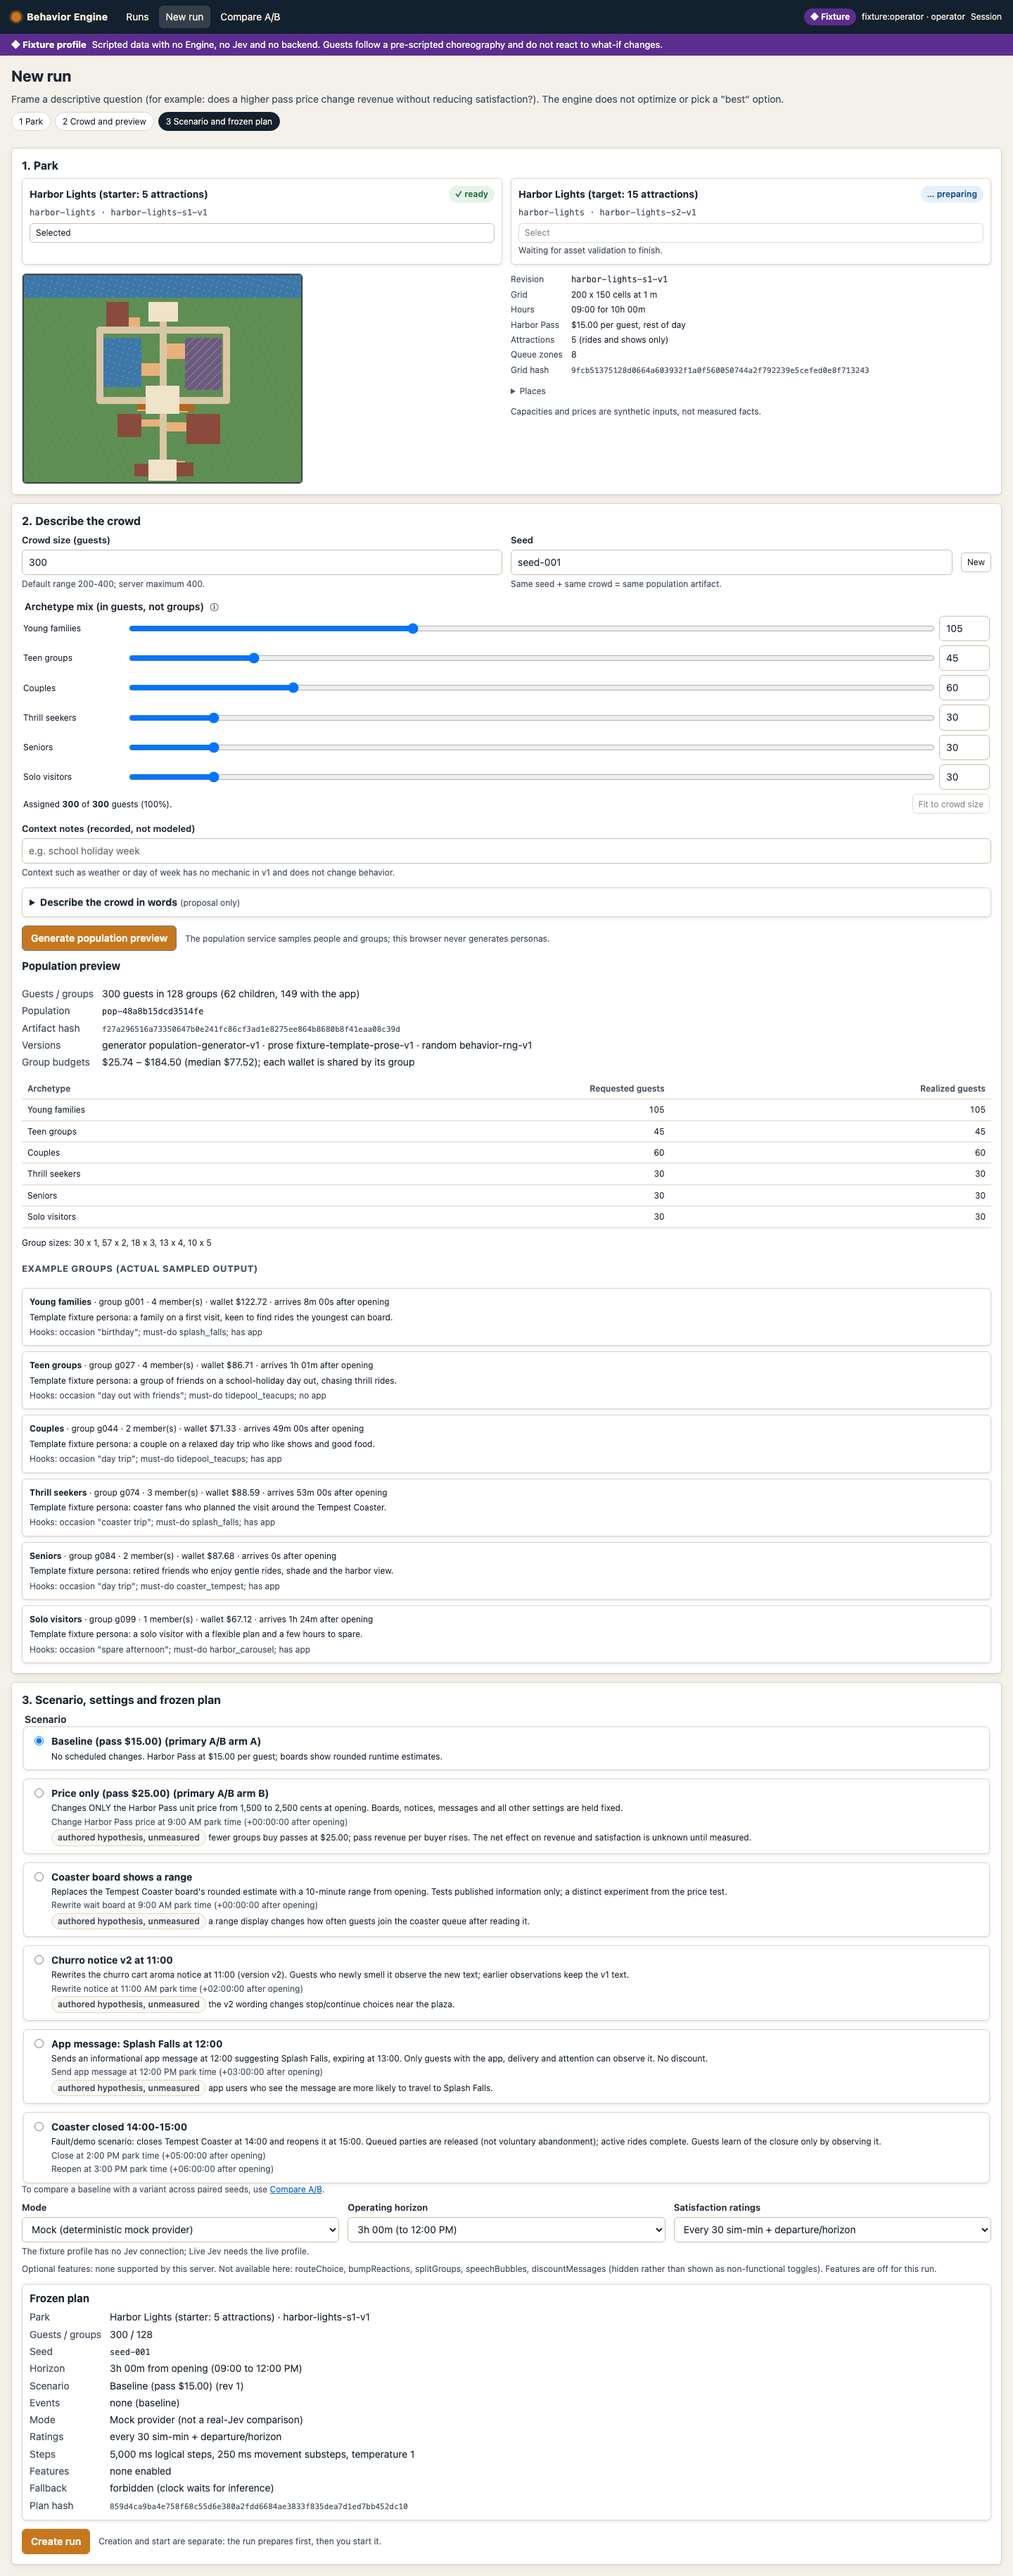
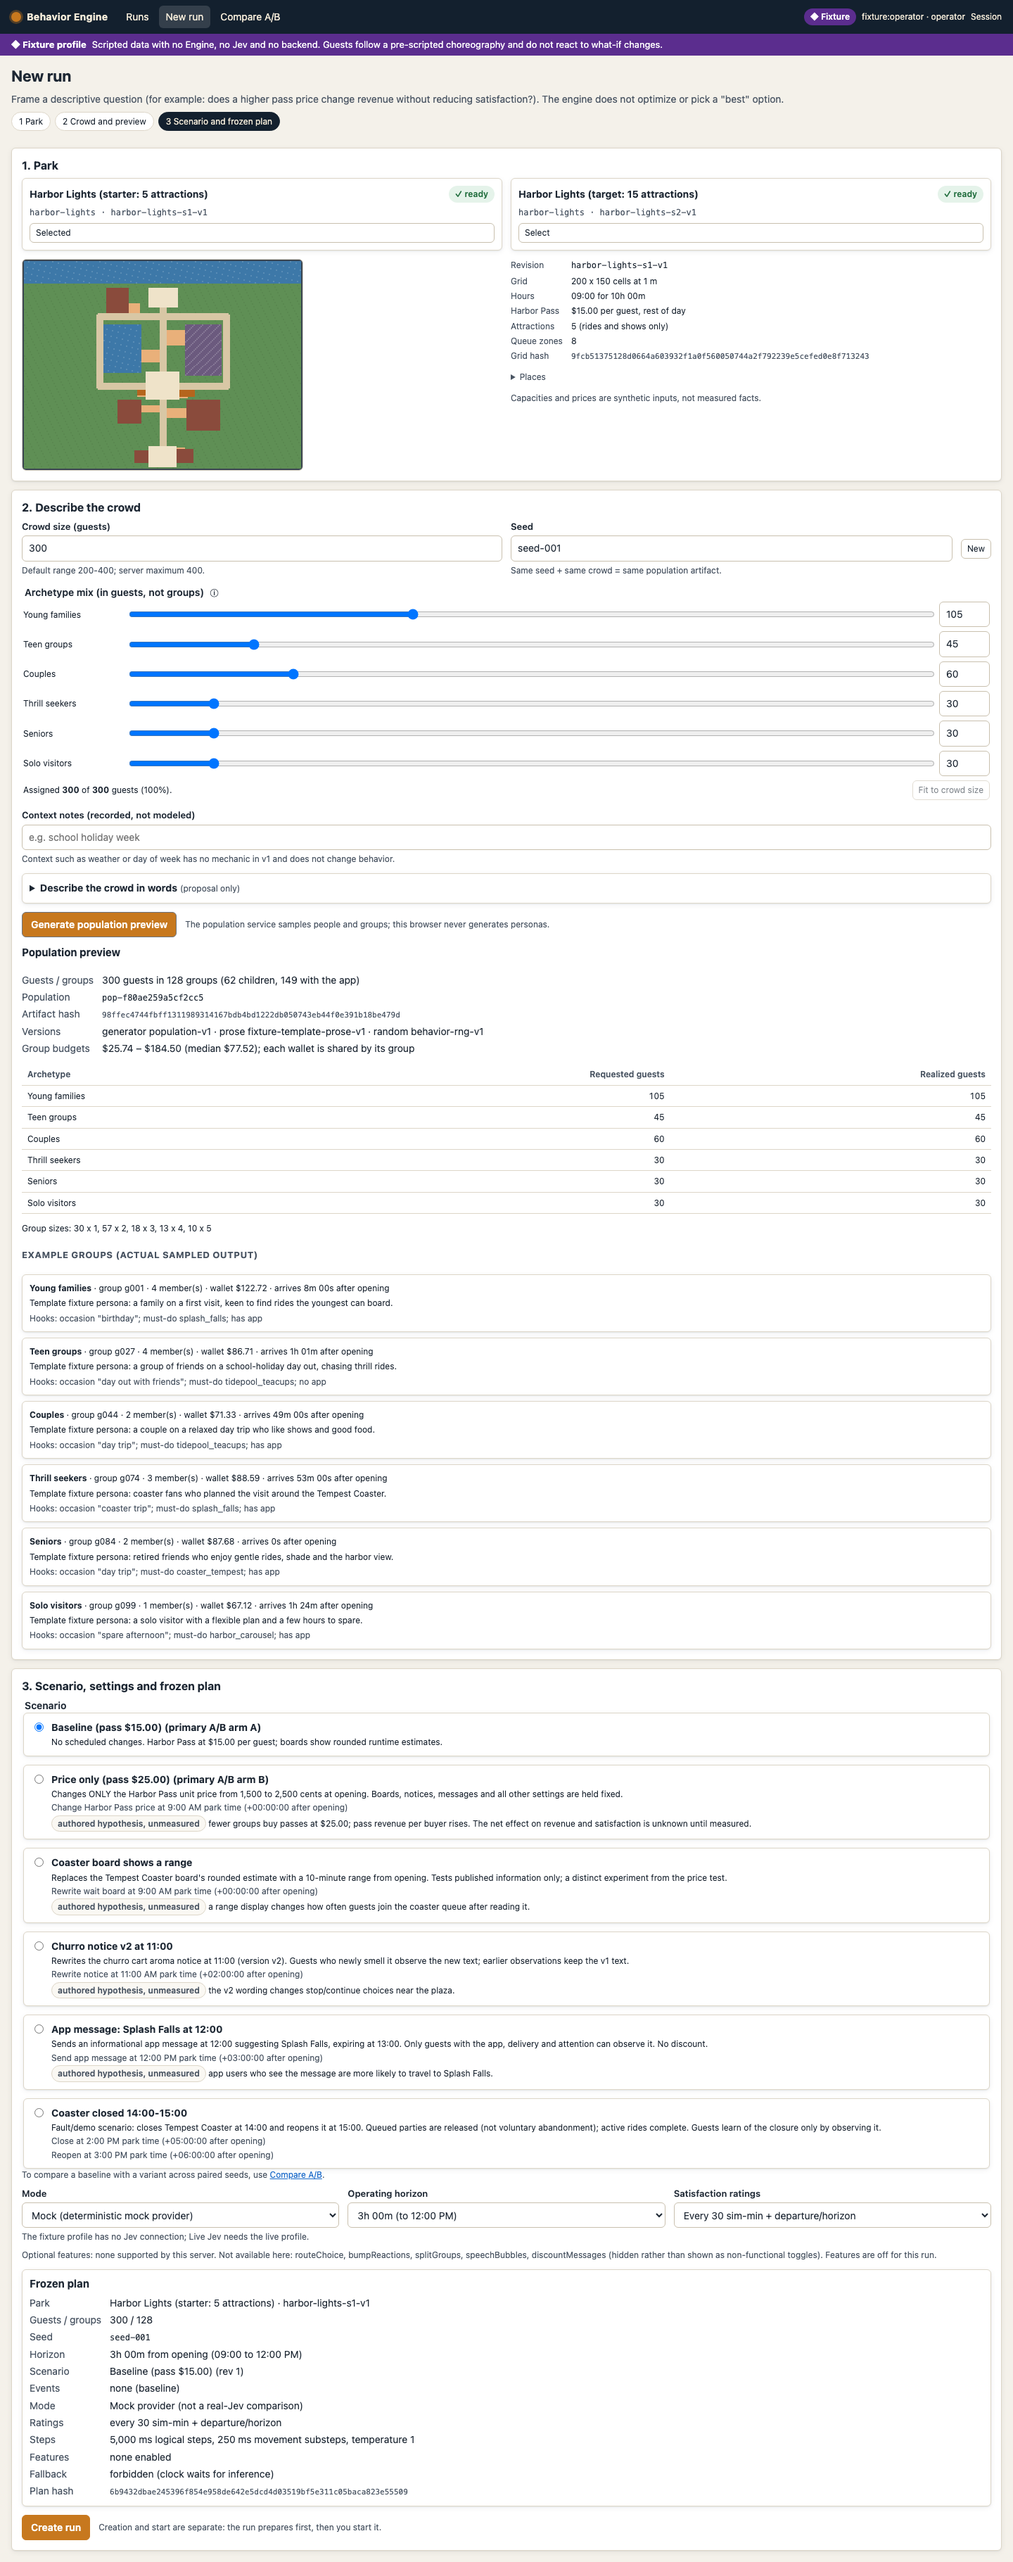
fix(experience): declare the versions Intelligence implements; live E2E fixes
RunConfig versions now name Intelligence's real rubric, prompt, persona and
option versions; requestedModel is mock-policy-v1 for mock runs and
jev-1.13.0 for live runs. Live E2E tests use Harbor Lights, a guest with a
recorded decision, and a bounded crowd for real-Jev runs.

diff --git a/experience/src/features/setup/plan.ts b/experience/src/features/setup/plan.ts
@@ -13,16 +13,18 @@ export const NO_FEATURES: FeatureFlags = { routeChoice: false, bumpReactions: fa
  * docs/integration-proposals/0001-server-version-set.md).
  */
 export const REQUESTED_VERSIONS: VersionSet = {
-  engine: 'engine-v1', observation: 'observation.v1', options: 'options-v1', random: 'behavior-rng-v1', persona: 'persona-v1',
-  prompt: 'prompt-v1', requestedModel: 'jev-default', meter: 'meter-v1', loading: 'loading-v1', metrics: 'metrics-v1',
-  rubric: 'rubric-v1', replay: 'replay-v1', sourceCommit: 'unknown',
+  engine: 'engine-v1', observation: 'observation.v1', options: 'options.v1', random: 'behavior-rng-v1', persona: 'population-v1',
+  prompt: 'jev-instructions-v1', requestedModel: 'mock-policy-v1', meter: 'meter.v1', loading: 'loading.v1', metrics: 'metrics-v1',
+  rubric: 'satisfaction-rubric-v1', replay: 'replay.v1', sourceCommit: 'unknown',
 };
+/** Model requested for behavior: Intelligence's mock policy, or Jev for live runs. */
+export const REQUESTED_MODEL: Record<Mode, string> = { mock: 'mock-policy-v1', live: 'jev-1.13.0', experiment: 'mock-policy-v1', replay: 'mock-policy-v1' };
 
 export function defaultRunConfig(mode: Mode, features: FeatureFlags = NO_FEATURES): RunConfig {
   return {
     mode, horizonMs: 3 * 3600_000, logicalStepMs: 5000, movementStepMs: 250, requestedSpeed: 10, temperature: 1,
     earlyDepartureThresholdMs: 30 * 60_000, ratingEveryMs: 30 * 60_000, visualFrameEveryMs: 30_000, checkpointEveryMs: 30 * 60_000,
-    fallback: mode === 'live' ? 'live_timeout_v1' : 'forbidden', liveTimeoutMs: 20_000, features, versions: REQUESTED_VERSIONS,
+    fallback: mode === 'live' ? 'live_timeout_v1' : 'forbidden', liveTimeoutMs: 20_000, features, versions: { ...REQUESTED_VERSIONS, requestedModel: REQUESTED_MODEL[mode] },
   };
 }
 

diff --git a/experience/tests/e2e/live/real-jev.spec.ts b/experience/tests/e2e/live/real-jev.spec.ts
@@ -12,7 +12,7 @@ test('@real-jev a live run shows a Jev-sourced distribution, never a mock presen
   await page.getByRole('button', { name: 'Use credential' }).click();
   await page.goto('/setup');
   await page.getByTestId('choose-park-harbor-lights-s1-v1').click();
-  await page.getByTestId('guest-count').fill('200');
+  await page.getByTestId('guest-count').fill('40');
   await page.getByRole('button', { name: 'Fit to crowd size' }).click();
   await page.getByTestId('request-preview').click();
   await expect(page.getByTestId('population-preview')).toBeVisible({ timeout: 300_000 });
